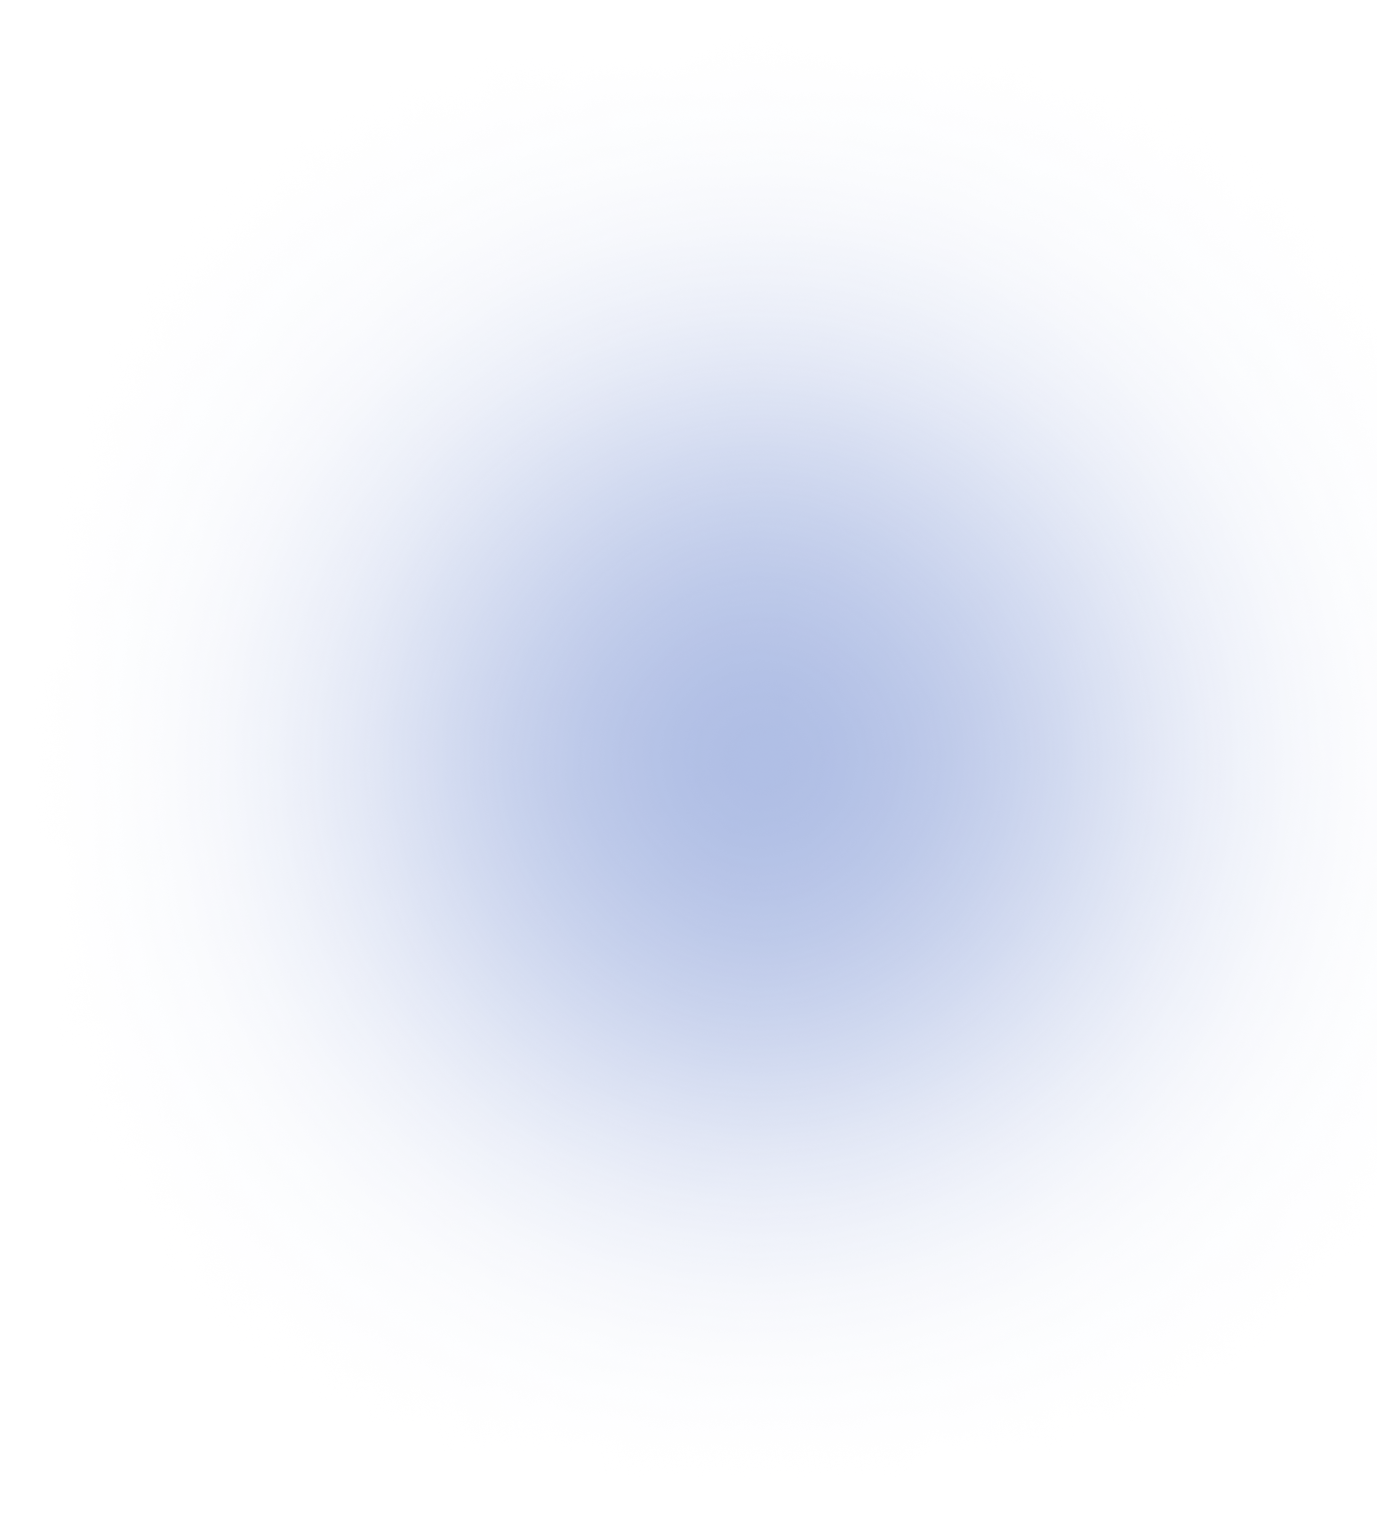
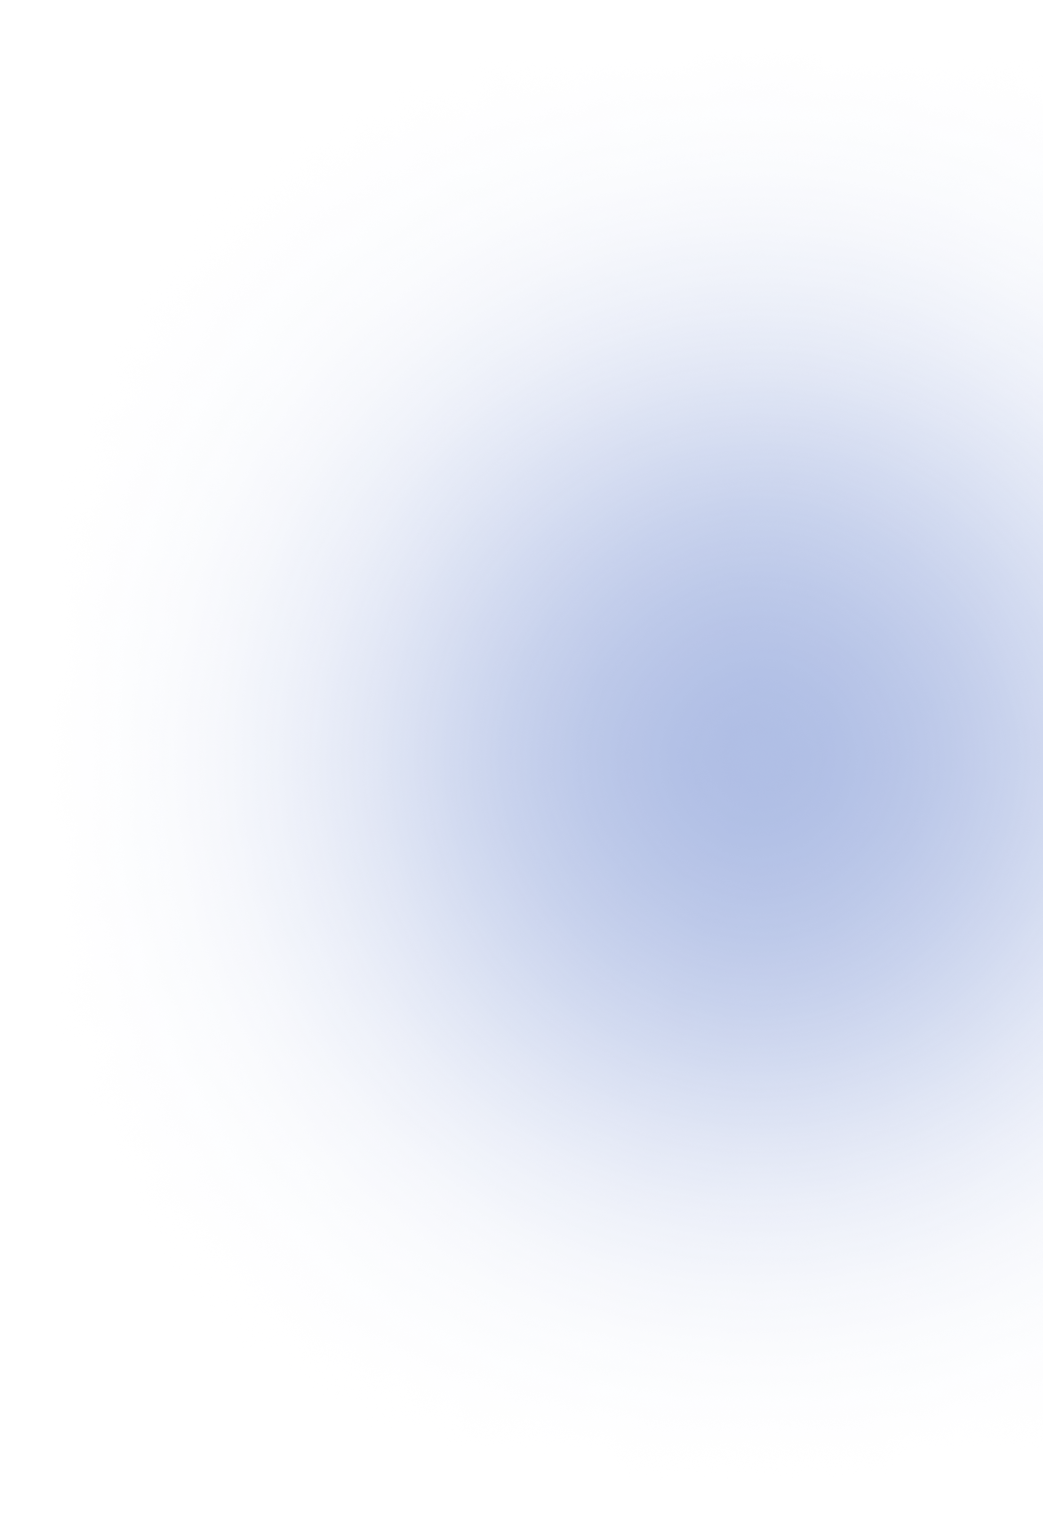
added shapes

Changed region(s): [[0.7363, 0.2477, 1.0, 0.7431]]

diff --git a/src/components/Services/Services.jsx b/src/components/Services/Services.jsx
@@ -5,10 +5,14 @@ import ImageTwo from './images/2.svg'
 import ImageThree from './images/3.svg'
 import ServiceItem from '../ServiceItem/ServiceItem'
 import { FaArrowRightLong } from 'react-icons/fa6'
+import serviceShapeLeft from './images/service-shape-left.png'
+import serviceShapeRight from './images/service-shape-right.png'
 
 const Services = () => {
   return (
     <section className='service-section'>
+      <img className='service-shape-left' src={serviceShapeLeft} alt="" />
+      <img className='service-shape-right' src={serviceShapeRight} alt="" />
       <Container>
         <Row>
           <Col xl={12}>

diff --git a/src/components/Hero/Hero.jsx b/src/components/Hero/Hero.jsx
@@ -2,11 +2,15 @@ import { Col, Container, Row } from 'react-bootstrap'
 import { Link } from 'react-router-dom'
 import './hero.css'
 import ParticlesWrapper from '../Particles/ParticlesWrapper'
+import bannerShape from './banner-shape1.png'
+import bannerShapeRight from './banner-shape2.png'
 
 const Hero = () => {
   return (
     <section className='banner-section'>
       <ParticlesWrapper id='tsparticles' />
+      <img className='banner-shape1' src={bannerShape} alt="" />
+      <img className='banner-shape-right' src={bannerShapeRight} alt="" />
       <Container>
         <Row>
           <Col xl={12}>

diff --git a/src/components/HowItWorks/HowItWorks.jsx b/src/components/HowItWorks/HowItWorks.jsx
@@ -4,10 +4,16 @@ import ImageOne from './1.png'
 import ImageTwo from './2.png'
 import ImageThree from './3.png'
 import './how-works.css'
+import stepShape1 from './step-shape1.png'
+import stepShape2 from './step-shape2.png'
+import stepShape3 from './step-shape3.png'
 
 const HowItWorks = () => {
   return (
     <section className='how-it-works'>
+      <img className='step-shape1' src={stepShape1} alt="" />
+      <img className='step-shape2' src={stepShape2} alt="" />
+      <img className='step-shape3' src={stepShape3} alt="" />
       <Container>
         <Row>
           <Col xl={12}>

diff --git a/src/components/AboutUs/about.css b/src/components/AboutUs/about.css
@@ -1,21 +1,23 @@
 section.about-us {
   position: relative;
-}
-
-section.about-us .blue-shape {
-  top: 0;
-}
-
-.shapes img {
-  max-width: 600px;
-}
-
-section.about-us .blue-shape {
-  right: 0;
-}
-
-section.about-us {
+  z-index: 1;
   margin: 140px 0;
+}
+
+.about-us .blue-shape {
+  top: 50%;
+  position: absolute;
+  right: 0;
+  transform: translateY(-50%);
+  z-index: -1;
+}
+
+.about-us .purple-shape {
+  left: 0;
+  position: absolute;
+  top: 50%;
+  transform: translateY(-50%);
+  z-index: -1;
 }
 
 .about-content h2 {

diff --git a/src/components/Blog/Blog.jsx b/src/components/Blog/Blog.jsx
@@ -6,6 +6,7 @@ import BlogItem from '../BlogItem/BlogItem'
 import ImageOne from './images/1.png'
 import ImageTwo from './images/2.png'
 import ImageThree from './images/3.png'
+import blogShape from './images/blog-shape.png'
 
 const Blog = () => {
   const settings = {
@@ -18,6 +19,7 @@ const Blog = () => {
   }
   return (
     <section className='blog-section'>
+      <img className='blog-shape' src={blogShape} alt="" />
       <Container>
         <Row>
           <Col xl={12}>

diff --git a/src/components/Contact/Contact.jsx b/src/components/Contact/Contact.jsx
@@ -2,10 +2,12 @@ import { Col, Container } from 'react-bootstrap'
 import { Link } from 'react-router-dom'
 import { FaArrowRightLong } from 'react-icons/fa6'
 import './contact.css'
+// import contactShape from './contact-shape.png'
 
 const Contact = () => {
   return (
     <section className='contact-section'>
+      {/* <img className='contact-shape' src={contactShape} alt="" /> */}
       <Container>
         <Col xl={12}>
           <div className='contact-cta'>

diff --git a/src/components/Roadmap/Roadmap.jsx b/src/components/Roadmap/Roadmap.jsx
@@ -6,10 +6,12 @@ import sdk from './images/sdk.svg'
 import network from './images/network.svg'
 import projects from './images/projects.svg'
 import box from './images/box.svg'
+import roadmapShapeLeft from './images/roadmap-shape1.png'
 
 const Roadmap = () => {
   return (
     <section className='roadmap-section'>
+      <img className='roadmap-shape-left' src={roadmapShapeLeft} alt="" />
       <Container>
         <Row>
           <Col>

diff --git a/src/components/Hero/hero.css b/src/components/Hero/hero.css
@@ -7,10 +7,27 @@
 }
 
 section.banner-section {
-  margin-top: 80px;
-  margin-bottom: 50px;
+  padding-top: 160px;
+  padding-bottom: 50px;
+  position: relative;
+  z-index: 1;
 }
 
 section.brand-section {
   margin-top: 140px;
+}
+
+.banner-shape1 {
+  position: absolute;
+  left: 50%;
+  top: 0;
+  transform: translateX(-50%);
+  z-index: -1;
+}
+
+.banner-shape-right {
+  position: absolute;
+  right: 0;
+  top: -5%;
+  z-index: -1;
 }

diff --git a/src/components/AboutUs/AboutUs.jsx b/src/components/AboutUs/AboutUs.jsx
@@ -10,9 +10,9 @@ const AboutUs = () => {
   return (
     <section className='about-us'>
       <div className='shapes'>
-        <img className='blue-shape position-absolute' src={BlueShape} alt='' />
+        <img className='blue-shape' src={BlueShape} alt='' />
         <img
-          className='purple-shape position-absolute'
+          className='purple-shape'
           src={PurpleShape}
           alt=''
         />

diff --git a/src/components/HowItWorks/how-works.css b/src/components/HowItWorks/how-works.css
@@ -62,3 +62,28 @@
 .how-item-three-content {
     margin-bottom: 50px;
 }
+
+
+.how-it-works {
+    position: relative;
+    z-index: 1;
+}
+
+.step-shape1 {
+    position: absolute;
+    top: 0;
+    z-index: -1;
+}
+
+.step-shape2 {
+    position: absolute;
+    top: 60%;
+    z-index: -1;
+}
+
+.step-shape3 {
+    position: absolute;
+    top: 60%;
+    right: 0;
+    z-index: -1;
+}

diff --git a/src/components/Contact/contact.css b/src/components/Contact/contact.css
@@ -5,6 +5,8 @@
 section.contact-section {
   margin-top: 140px;
   margin-bottom: 90px;
+  position: relative;
+  z-index: 1;
 }
 .contact-cta h2 {
   font-size: 48px;
@@ -23,3 +25,11 @@ section.contact-section {
   margin-bottom: 25px;
   line-height: 1.8;
 }
+
+/* .contact-shape {
+  position: absolute;
+  right: 0;
+  top: 90%;
+  transform: translateY(-50%);
+  z-index: -1;
+} */

diff --git a/src/components/ServiceItem/service-item.css b/src/components/ServiceItem/service-item.css
@@ -29,4 +29,22 @@
 
 section.service-section {
   margin-bottom: 140px;
+  position: relative;
+  z-index: 1;
+}
+
+.service-shape-left {
+  position: absolute;
+  left: 0;
+  top: 50%;
+  transform: translateY(-50%);
+  z-index: -1;
+}
+
+.service-shape-right {
+  position: absolute;
+  right: 0;
+  top: 50%;
+  transform: translateY(-50%);
+  z-index: -1;
 }
